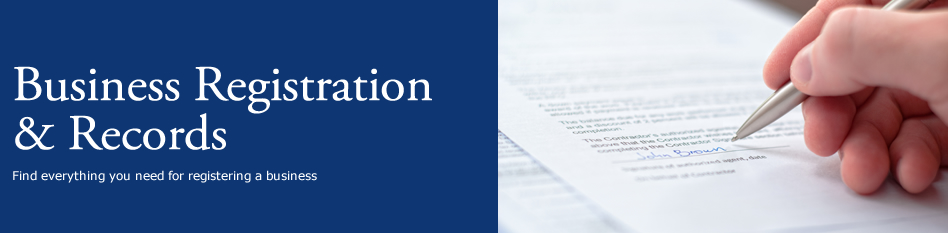
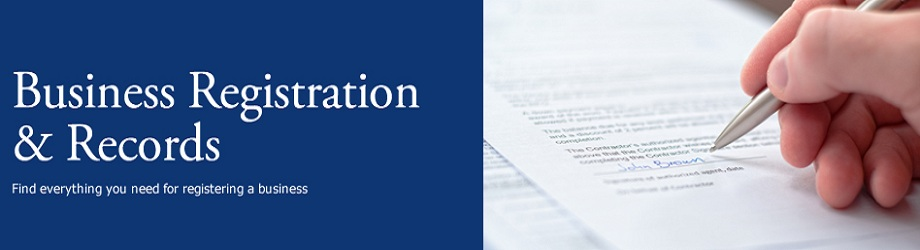
Homepage cleanup

diff --git a/WEB-INF/blnc.html b/WEB-INF/blnc.html
@@ -73,177 +73,168 @@
     <!-- /.container -->
 </nav>
 
+<div class="container" style="height:auto;">
+    <div class="col-xs-10 col-md-offset-1" style="padding:0px;border:2px solid #e0e0e0">
+        <div id="myCarousel" class="carousel slide">
+            <!-- Indicators -->
+            <ol class="carousel-indicators">
+                <li data-target="#myCarousel" data-slide-to="0" class="active"></li>
+                <li data-target="#myCarousel" data-slide-to="1"></li>
+                <li data-target="#myCarousel" data-slide-to="2"></li>
+                <li data-target="#myCarousel" data-slide-to="3"></li>
+            </ol>
 
-<div id="myCarousel" class="carousel slide">
-    <!-- Indicators -->
-    <ol class="carousel-indicators">
-        <li data-target="#myCarousel" data-slide-to="0" class="active"></li>
-        <li data-target="#myCarousel" data-slide-to="1"></li>
-        <li data-target="#myCarousel" data-slide-to="2"></li>
-        <li data-target="#myCarousel" data-slide-to="3"></li>
-    </ol>
-
-    <!-- Wrapper for slides -->
-    <div class="carousel-inner">
-        <div class="item active">
-            <a href="business-registration.html">
-                <div class="fill" style="background-image:url('../assets/img/business_regn.jpg');"></div>
-            </a>
-
-            <div class="container">
+            <!-- Wrapper for slides -->
+            <div class="carousel-inner">
+                <div class="item active">
+                    <a href="business-registration.html">
+                        <div class="fill" style="background-image:url('../assets/img/business_regn.jpg');"></div>
+                    </a>
+                </div>
+                <div class="item">
+                    <a href="business-licensing.html">
+                        <div class="fill" style="background-image:url('../assets/img/licensing-01.jpg');"></div>
+                    </a>
+                </div>
+                <div class="item">
+                    <a href="taxes.html">
+                        <div class="fill" style="background-image:url('../assets/img/tax.jpg');"></div>
+                    </a>
+                </div>
+                <div class="item">
+                    <a href="starting.html">
+                        <div class="fill" style="background-image:url('../assets/img/starting.jpg');"></div>
+                    </a>
+                </div>
             </div>
+
+            <!-- Controls -->
+            <a class="left carousel-control" href="#myCarousel" data-slide="prev">
+                <span class="icon-prev"></span>
+            </a>
+            <a class="right carousel-control" href="#myCarousel" data-slide="next">
+                <span class="icon-next"></span>
+            </a>
         </div>
-        <div class="item">
-            <a href="business-licensing.html">
-                <div class="fill" style="background-image:url('../assets/img/licensing-01.jpg');"></div>
-            </a>
 
-            <div class="container">
-            </div>
-        </div>
-        <div class="item">
-            <a href="taxes.html">
-                <div class="fill" style="background-image:url('../assets/img/tax.jpg');"></div>
-            </a>
+        <div class="section">
+            <div class="gradientTop">
+                <div id="mainContent" class="one-edge-shadow"
+                     style="background: url('../assets/img/interior-gradient-bottom.png') repeat-x scroll center bottom">
+                    <div class="row">
+                        <div class="col-md-4 column ">
+                            <img src="../assets/img/people.jpg">
 
-            <div class="container">
-            </div>
-        </div>
-        <div class="item">
-            <a href="starting.html">
-                <div class="fill" style="background-image:url('../assets/img/starting.jpg');"></div>
-            </a>
+                            <div class="kickerCol3">
+                                <h2 class="contentHeadline">Is this website for you?</h2>
 
-            <div class="container">
+                                <p class="home_column_content"> Business Link helps you get your new business off the
+                                    ground.</p>
+
+                                <p><a href="wiz.html" class="btn btn-default  btn-xs" role="button">Read More</a>
+                                </p>
+                            </div>
+                        </div>
+                        <div class="col-md-4 column ">
+                            <img src="../assets/img/checklist.jpg" alt="Business Startup Planning Checklist">
+
+                            <div class="kickerCol1">
+                                <h2 class="contentHeadline">Startup Planning Checklist</h2>
+
+                                <p class="home_column_content">Refer our checklist for planning your awesome startup</p>
+
+                                <p><a href="wiz.html" class="btn btn-default  btn-xs" role="button">Read More</a>
+                                </p>
+                            </div>
+
+                        </div>
+
+                        <div class="col-md-4">
+                            <img src="../assets/img/business_link.jpg" alt="Business Link Express">
+
+                            <div class="kickerCol2">
+                                <h2 class="contentHeadline">Business Link Express </h2>
+
+                                <p class="home_column_content">Read about the requirements for starting a North Carolina
+                                    business. Learn how you can get done online. Get your North Carolina Business
+                                    started
+                                    right here!</p>
+
+                                <p><a href="wiz.html" class="btn btn-default  btn-xs" role="button">Read More</a>
+                                </p>
+                            </div>
+                        </div>
+
+                    </div>
+                    <div class="row">
+                        <div class="col-md-4 column ">
+                            <img src="../assets/img/people.jpg">
+
+                            <div class="kickerCol3">
+                                <h2 class="contentHeadline">Is this website for you?</h2>
+
+                                <p class="home_column_content"> Business Link helps you get your new business off the
+                                    ground.</p>
+
+                                <p><a href="wiz.html" class="btn btn-default  btn-xs" role="button">Read More</a>
+                                </p>
+                            </div>
+                        </div>
+                        <div class="col-md-4 column ">
+                            <img src="../assets/img/checklist.jpg" alt="Business Startup Planning Checklist">
+
+                            <div class="kickerCol1">
+                                <h2 class="contentHeadline">Startup Planning Checklist</h2>
+
+                                <p class="home_column_content">Refer our checklist for planning your awesome startup</p>
+
+                                <p><a href="wiz.html" class="btn btn-default  btn-xs" role="button">Read More</a>
+                                </p>
+                            </div>
+
+                        </div>
+
+                        <div class="col-md-4">
+                            <img src="../assets/img/business_link.jpg" alt="Business Link Express">
+
+                            <div class="kickerCol2">
+                                <h2 class="contentHeadline">Business Link Express </h2>
+
+                                <p class="home_column_content">Read about the requirements for starting a North Carolina
+                                    business. Learn how you can get done online. Get your North Carolina Business
+                                    started
+                                    right here!</p>
+
+                                <p><a href="wiz.html" class="btn btn-default  btn-xs" role="button">Read More</a>
+                                </p>
+                            </div>
+                        </div>
+
+                    </div>
+                    <div class="spacer"></div>
+                </div>
             </div>
+
+
         </div>
     </div>
-
-    <!-- Controls -->
-    <a class="left carousel-control" href="#myCarousel" data-slide="prev">
-        <span class="icon-prev"></span>
-    </a>
-    <a class="right carousel-control" href="#myCarousel" data-slide="next">
-        <span class="icon-next"></span>
-    </a>
 </div>
-
-<div class="section">
-
+<!-- Footer-->
+<div class="footer shadow">
     <div class="container ">
-        <div class="gradientTop">
-            <div id="mainContent" class="one-edge-shadow"
-                 style="background: url('../assets/img/interior-gradient-bottom.png') repeat-x scroll center bottom">
-                <div class="row">
-                    <div class="col-md-4 column ">
-                        <img src="../assets/img/people.jpg">
-
-                        <div class="kickerCol3">
-                            <h2 class="contentHeadline">Is this website for you?</h2>
-
-                            <p class="home_column_content"> Business Link helps you get your new business off the
-                                ground.</p>
-
-                            <p><a href="wiz.html" class="btn btn-default  btn-xs" role="button">Read More</a>
-                            </p>
-                        </div>
-                    </div>
-                    <div class="col-md-4 column ">
-                        <img src="../assets/img/checklist.jpg" alt="Business Startup Planning Checklist">
-
-                        <div class="kickerCol1">
-                            <h2 class="contentHeadline">Startup Planning Checklist</h2>
-
-                            <p class="home_column_content">Refer our checklist for planning your awesome startup</p>
-
-                            <p><a href="wiz.html" class="btn btn-default  btn-xs" role="button">Read More</a>
-                            </p>
-                        </div>
-
-                    </div>
-
-                    <div class="col-md-4">
-                        <img src="../assets/img/business_link.jpg" alt="Business Link Express">
-
-                        <div class="kickerCol2">
-                            <h2 class="contentHeadline">Business Link Express </h2>
-
-                            <p class="home_column_content">Read about the requirements for starting a North Carolina
-                                business. Learn how you can get done online. Get your North Carolina Business started
-                                right here!</p>
-
-                            <p><a href="wiz.html" class="btn btn-default  btn-xs" role="button">Read More</a>
-                            </p>
-                        </div>
-                    </div>
-
-                </div>
-                <div class="row">
-                    <div class="col-md-4 column ">
-                        <img src="../assets/img/people.jpg">
-
-                        <div class="kickerCol3">
-                            <h2 class="contentHeadline">Is this website for you?</h2>
-
-                            <p class="home_column_content"> Business Link helps you get your new business off the
-                                ground.</p>
-
-                            <p><a href="wiz.html" class="btn btn-default  btn-xs" role="button">Read More</a>
-                            </p>
-                        </div>
-                    </div>
-                    <div class="col-md-4 column ">
-                        <img src="../assets/img/checklist.jpg" alt="Business Startup Planning Checklist">
-
-                        <div class="kickerCol1">
-                            <h2 class="contentHeadline">Startup Planning Checklist</h2>
-
-                            <p class="home_column_content">Refer our checklist for planning your awesome startup</p>
-
-                            <p><a href="wiz.html" class="btn btn-default  btn-xs" role="button">Read More</a>
-                            </p>
-                        </div>
-
-                    </div>
-
-                    <div class="col-md-4">
-                        <img src="../assets/img/business_link.jpg" alt="Business Link Express">
-
-                        <div class="kickerCol2">
-                            <h2 class="contentHeadline">Business Link Express </h2>
-
-                            <p class="home_column_content">Read about the requirements for starting a North Carolina
-                                business. Learn how you can get done online. Get your North Carolina Business started
-                                right here!</p>
-
-                            <p><a href="wiz.html" class="btn btn-default  btn-xs" role="button">Read More</a>
-                            </p>
-                        </div>
-                    </div>
-
-                </div>
-                <div class="spacer"></div>
+        <div class="row">
+            <div>
+                <p><span><img
+                        src="../assets/img/logo.png"
+                        style="display:inline-block;width:50px;padding-right: 5px;"></span>Business Link NC is a
+                    collaboration
+                    among the N.C. Department of Commerce, the N.C. Department of
+                    Revenue, and the N.C. Secretary of State.</p>
             </div>
         </div>
     </div>
-    <!-- /.container -->
-    <!-- Footer-->
-    <div class="footer shadow">
-        <div class="container ">
-            <div class="row">
-                <div>
-                    <p><span><img
-                            src="../assets/img/logo.png"
-                            style="display:inline-block;width:50px;padding-right: 5px;"></span>Business Link NC is a
-                        collaboration
-                        among the N.C. Department of Commerce, the N.C. Department of
-                        Revenue, and the N.C. Secretary of State.</p>
-                </div>
-            </div>
-        </div>
-    </div>
-    <!-- End Footer -->
 </div>
+<!-- End Footer -->
 <!-- /.section -->
 <!-- JavaScript -->
 <script src="../assets/js/jquery-1.10.2.js"></script>

diff --git a/assets/css/modern-business.css b/assets/css/modern-business.css
@@ -58,6 +58,10 @@ h3{
     font-size:19px; !important
 }
 
+#myCarousel{
+    height:250px;
+}
+
 .swMain.span {
     font-family: 'Ubuntu', 'sans-serif' !important;
 }
@@ -153,8 +157,8 @@ nav, .footer {
 
 /* Half Page Height Carousel Customization */
 .carousel {
-    height: 45%;
-    width: 80%;
+    height: 233px;
+
     margin: 0 auto;
     margin-top: 15px;
 }
